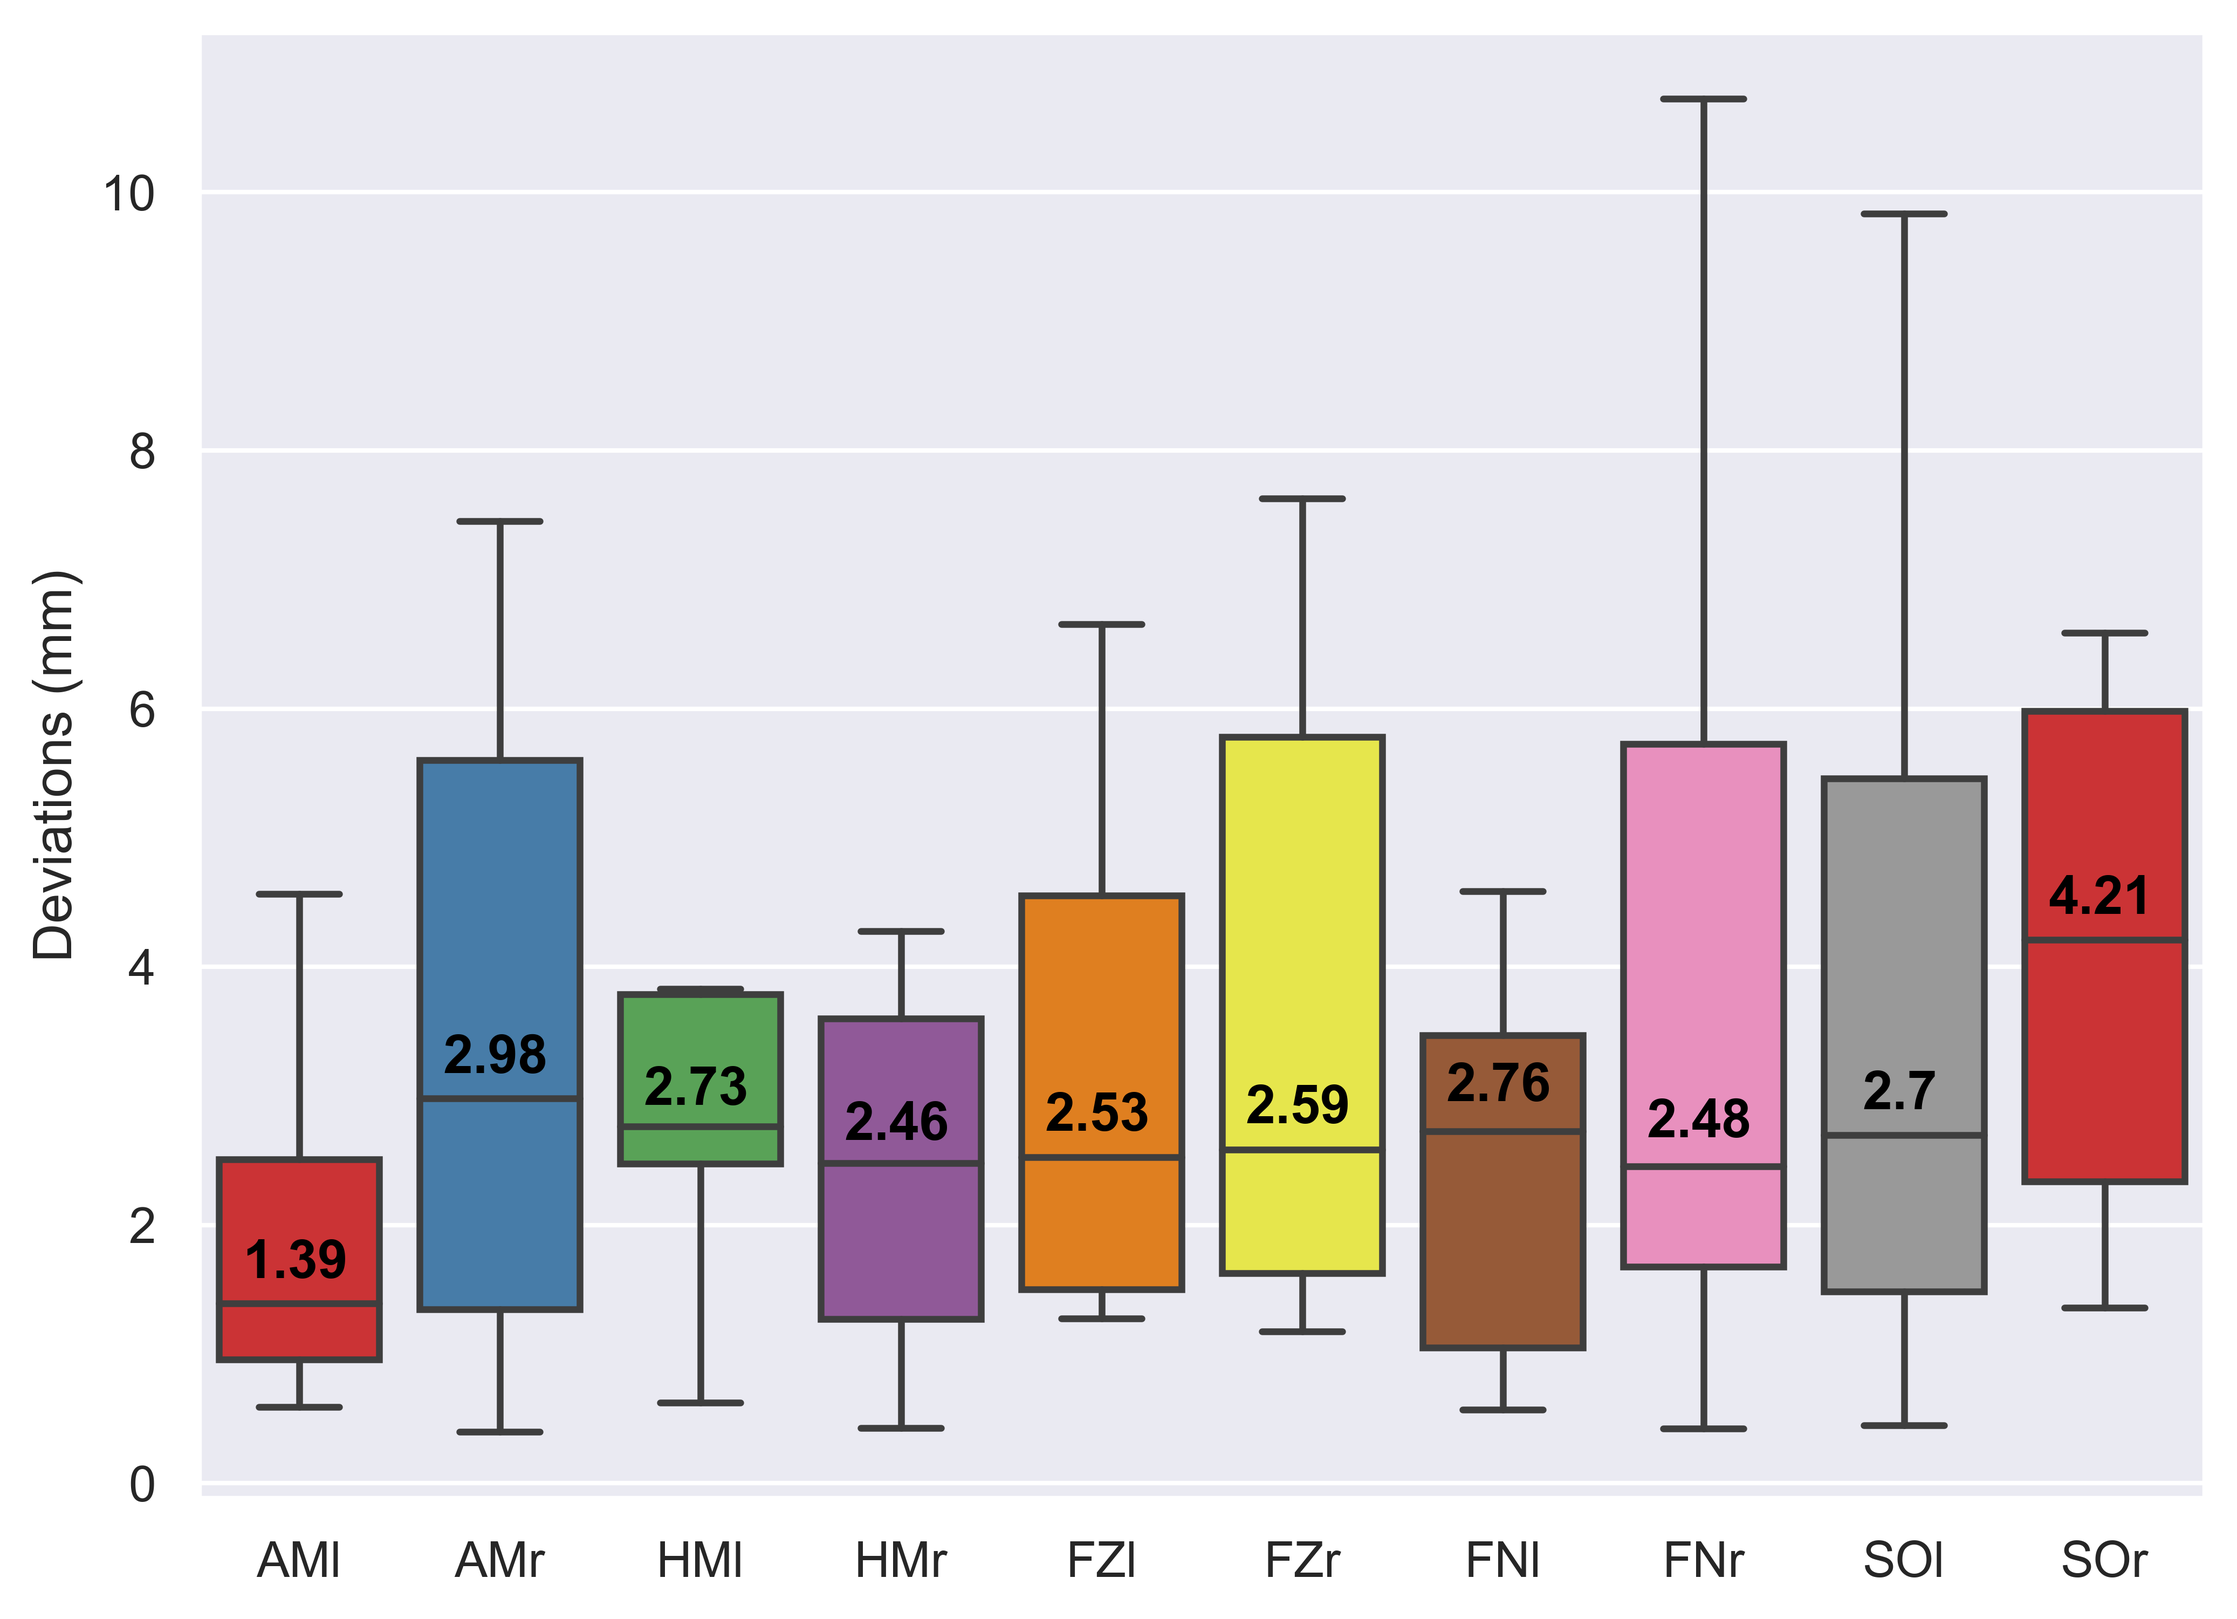
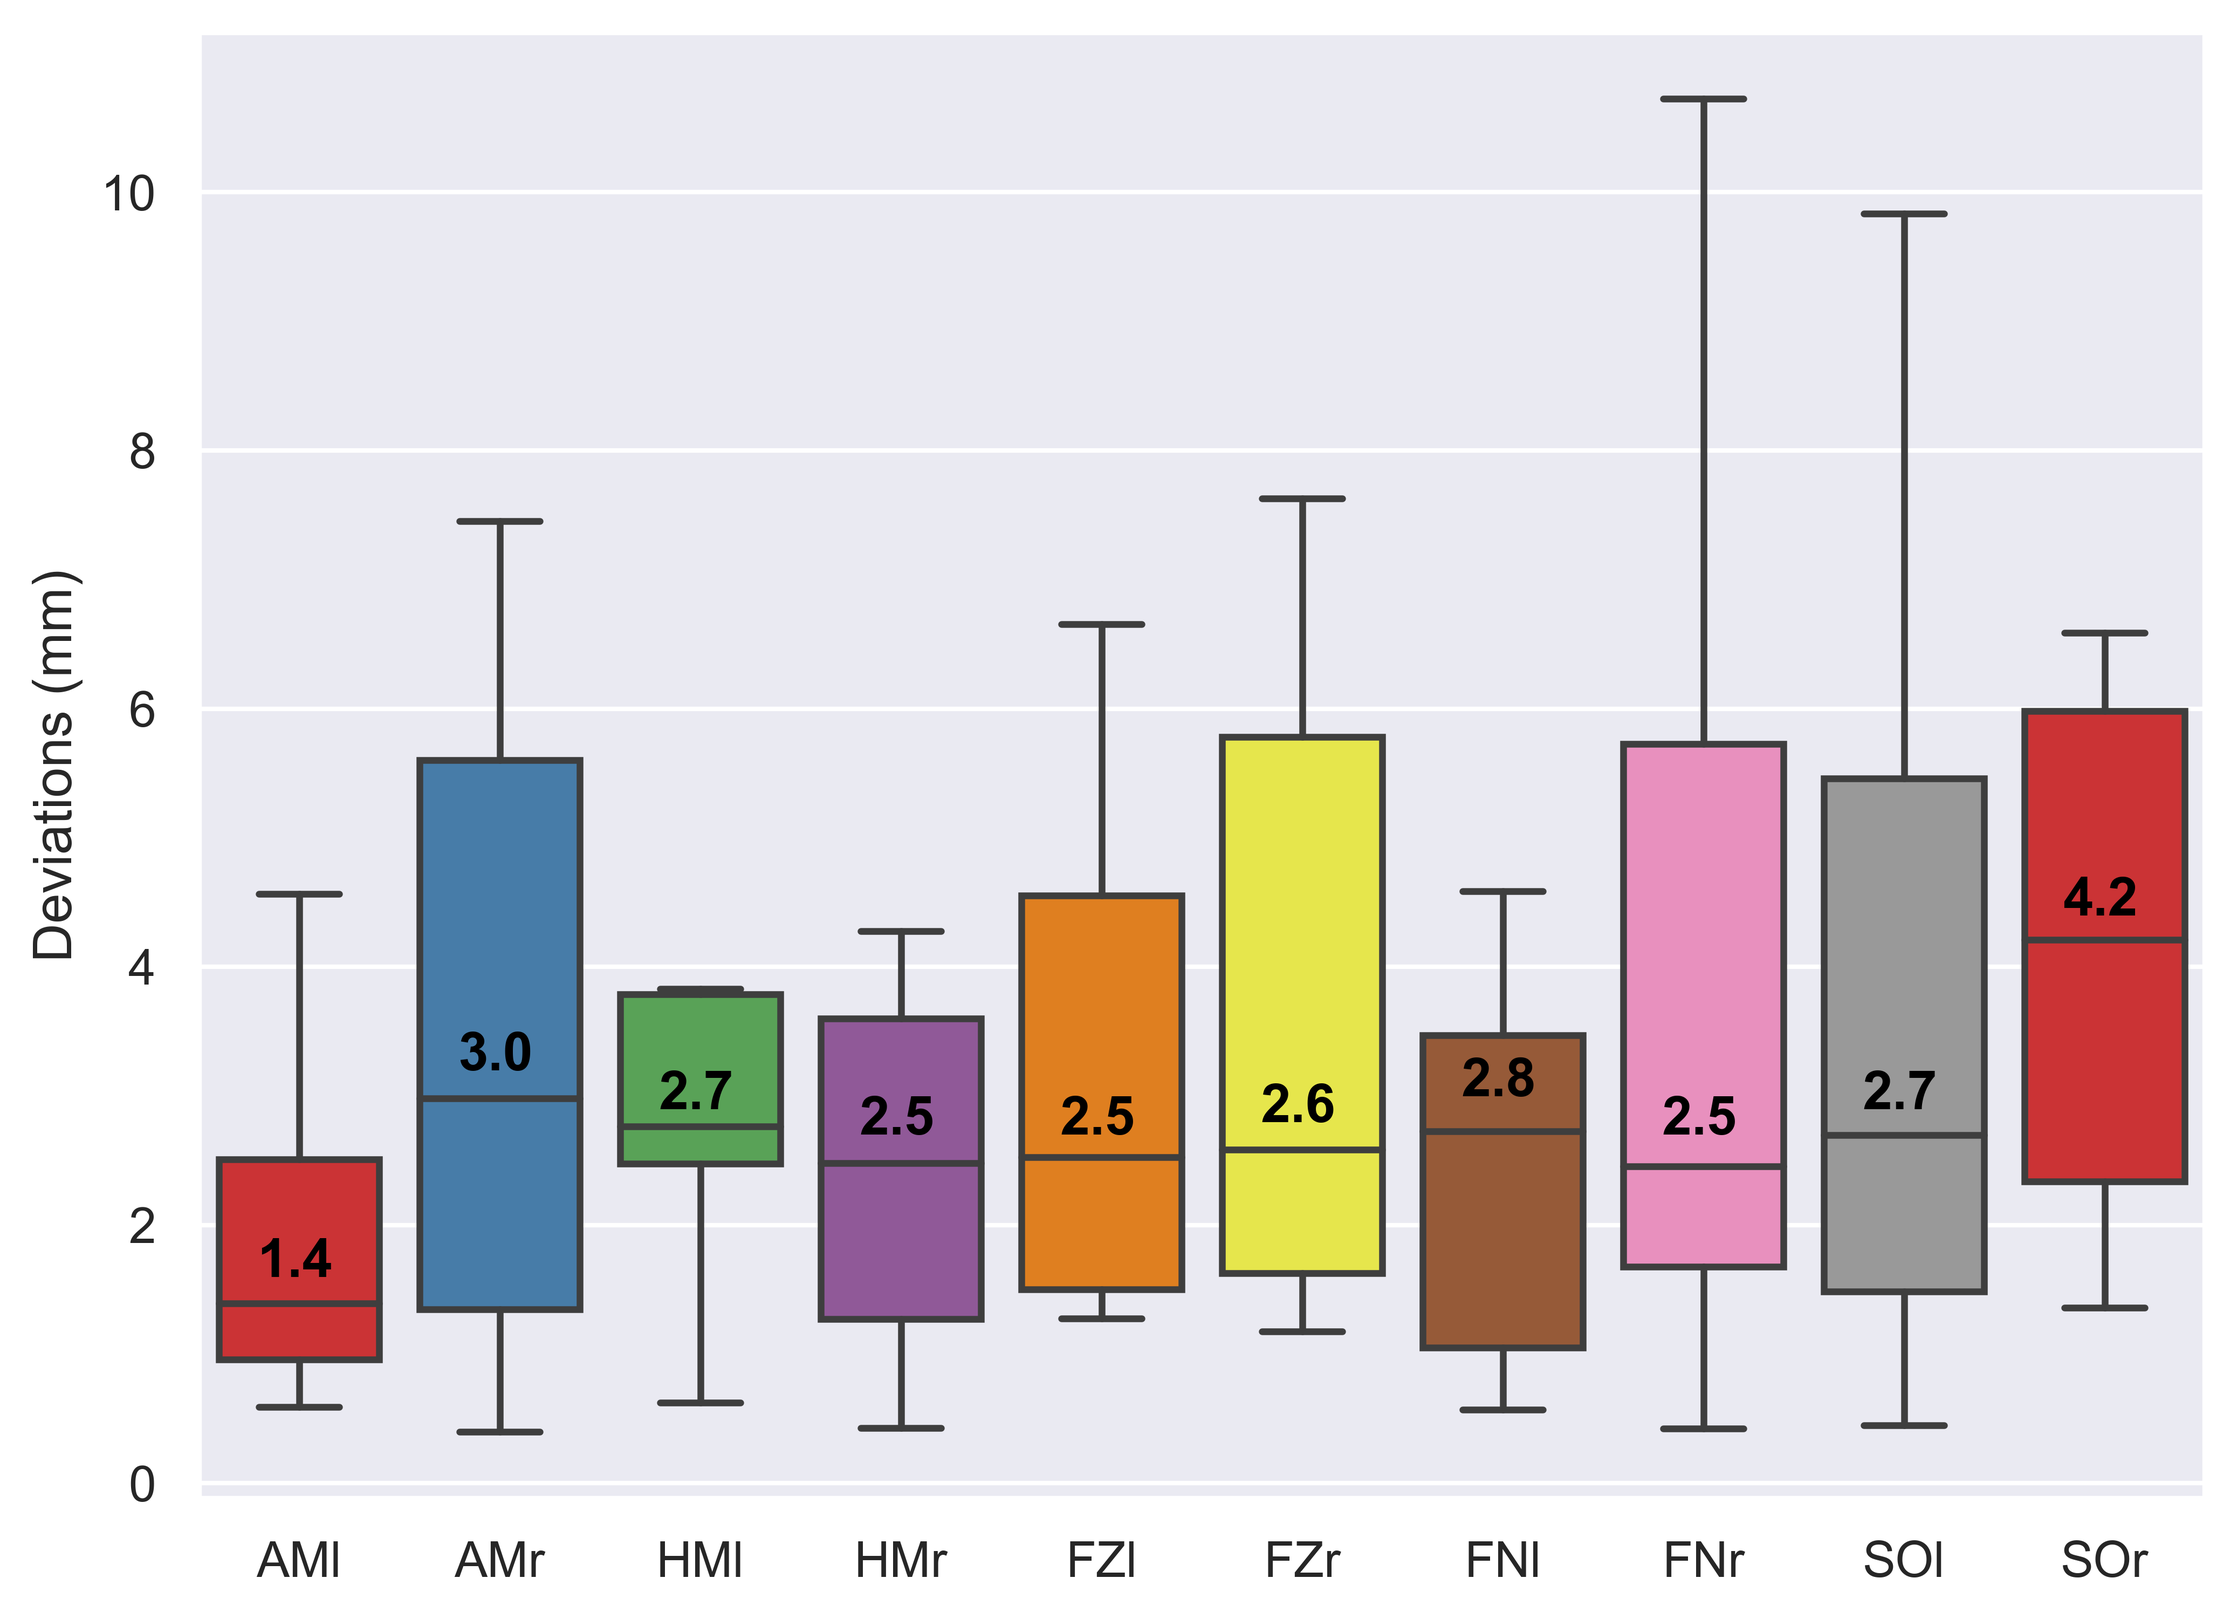
plots

diff --git a/compare/click_comp_sets.py b/compare/click_comp_sets.py
@@ -156,7 +156,7 @@ d_new = []
 l_old = [0.7, 1.7, 2.7, 3.7, 4.7, 5.7, 6.7, 7.7, 8.7, 9.7] 
 l_new = [1.3, 2.3, 3.3, 4.3, 5.3, 6.3, 7.3, 8.3, 9.3, 10.3]
 
-inter = True
+inter = False
 
 if inter == True:
     for l in landmarks:
@@ -229,11 +229,11 @@ df_d_old = pd.DataFrame(d_old, columns=('Patient', 'Landmark','Deviation'))
 df_d_new = pd.DataFrame(d_new,  columns=('Patient', 'Landmark','Deviation'))
        
 if inter == True:
-    df_d_new['Clicks'] = 'Revised'
-    df_d_old['Clicks'] = 'Initial'
+    df_d_new['Annotations'] = 'Revised'
+    df_d_old['Annotations'] = 'Initial'
 if inter == False:
-    df_d_new['Clicker'] = 'Aaron'
-    df_d_old['Clicker'] = 'Oli'
+    df_d_new['Annotator'] = 'Aaron'
+    df_d_old['Annotator'] = 'Oli'
     
 df_d = pd.concat([df_d_old,df_d_new])
 
@@ -249,9 +249,9 @@ means_old = df_d_old.groupby(['Landmark'])['Deviation'].mean()
 #hand =  ['Initial', 'Revised']
 plt.figure(figsize=(8,6))
 if inter == True:       
-    box_plot = sns.boxplot(x = 'Landmark', y = 'Deviation', hue = 'Clicks', palette = 'Set1', data=df_d, showfliers=False)
+    box_plot = sns.boxplot(x = 'Landmark', y = 'Deviation', hue = 'Annotations', palette = 'Set1', data=df_d, showfliers=False)
 elif inter == False:
-    box_plot = sns.boxplot(x = 'Landmark', y = 'Deviation', hue = 'Clicker', palette = 'Set1', data=df_d, showfliers=False)
+    box_plot = sns.boxplot(x = 'Landmark', y = 'Deviation', hue = 'Annotator', palette = 'Set1', data=df_d, showfliers=False)
 
 #sns_plot_new = sns.boxplot(x = 'Landmark', y = 'Revised',data=df_d_new, showfliers=False)
 #plt.legend(bbox_to_anchor=(1.05, 1), handles = [sns_plot_old, sns_plot_new], loc='upper left', borderaxespad=0.)
@@ -278,10 +278,15 @@ if inter == True:
                     horizontalalignment='right',size=12,color='pink', weight='semibold', rotation = 0)
             box_plot.text(xtick + 0.02,medians_new[xtick] + vertical_offset_new,medians_new[xtick], 
                 horizontalalignment='left',size=12,color='pink', weight='semibold', rotation = 0)
-        elif xtick == 3:
-            box_plot.text(xtick - 0.02,medians_old[xtick] + vertical_offset_old - 0.02,medians_old[xtick], 
+        elif xtick == 2:
+            box_plot.text(xtick - 0.02,medians_old[xtick] + vertical_offset_old - 0.5,medians_old[xtick], 
                     horizontalalignment='right',size=12,color='pink', weight='semibold', rotation = 0)
-            box_plot.text(xtick + 0.02,medians_new[xtick] + vertical_offset_new,medians_new[xtick], 
+            box_plot.text(xtick + 0.02,medians_new[xtick] + vertical_offset_new - 0.5,medians_new[xtick], 
+                horizontalalignment='left',size=12,color='pink', weight='semibold', rotation = 0)
+        elif xtick == 3:
+            box_plot.text(xtick - 0.02,medians_old[xtick] + vertical_offset_old - 0.5,medians_old[xtick], 
+                    horizontalalignment='right',size=12,color='pink', weight='semibold', rotation = 0)
+            box_plot.text(xtick + 0.02,medians_new[xtick] + vertical_offset_new - 0.5,medians_new[xtick], 
                 horizontalalignment='left',size=12,color='pink', weight='semibold', rotation = 0)
         elif xtick == 4:
             box_plot.text(xtick - 0.02,medians_old[xtick] + vertical_offset_old,medians_old[xtick], 
@@ -291,7 +296,7 @@ if inter == True:
         elif xtick == 6:
             box_plot.text(xtick - 0.02,medians_old[xtick] + vertical_offset_old,medians_old[xtick], 
                     horizontalalignment='right',size=12,color='pink', weight='semibold', rotation = 0)
-            box_plot.text(xtick + 0.02,medians_new[xtick] + vertical_offset_new - 0.11,medians_new[xtick], 
+            box_plot.text(xtick + 0.02,medians_new[xtick] + vertical_offset_new - 0.5,medians_new[xtick], 
                 horizontalalignment='left',size=12,color='pink', weight='semibold', rotation = 0)
         elif xtick == 7:
             box_plot.text(xtick - 0.02,medians_old[xtick] + vertical_offset_old,medians_old[xtick], 
@@ -299,9 +304,14 @@ if inter == True:
             box_plot.text(xtick + 0.02,medians_new[xtick] + vertical_offset_new - 1,medians_new[xtick], 
                 horizontalalignment='left',size=12,color='pink', weight='semibold', rotation = 0)
         elif xtick == 8:
-            box_plot.text(xtick - 0.02,medians_old[xtick] + vertical_offset_old - 0.1,medians_old[xtick], 
+            box_plot.text(xtick - 0.02,medians_old[xtick] + vertical_offset_old - 0.5,medians_old[xtick], 
                     horizontalalignment='right',size=12,color='pink', weight='semibold', rotation = 0)
             box_plot.text(xtick + 0.02,medians_new[xtick] + vertical_offset_new - 0,medians_new[xtick], 
+                horizontalalignment='left',size=12,color='pink', weight='semibold', rotation = 0)
+        elif xtick == 9:
+            box_plot.text(xtick - 0.02,medians_old[xtick] + vertical_offset_old - 0.5,medians_old[xtick], 
+                    horizontalalignment='right',size=12,color='pink', weight='semibold', rotation = 0)
+            box_plot.text(xtick + 0.02,medians_new[xtick] + vertical_offset_new + 0.2,medians_new[xtick], 
                 horizontalalignment='left',size=12,color='pink', weight='semibold', rotation = 0)
         else:
             box_plot.text(xtick - 0.02,medians_old[xtick] + vertical_offset_old,medians_old[xtick], 
@@ -313,61 +323,64 @@ elif inter == False:
     for xtick in box_plot.get_xticks():
         
         if xtick == 1:
-            box_plot.text(xtick - 0.02,medians_old[xtick] + vertical_offset_old,medians_old[xtick], 
-                    horizontalalignment='right',size=12,color='pink', weight='semibold', rotation = 0)
-            box_plot.text(xtick + 0.02,medians_new[xtick] + vertical_offset_new,medians_new[xtick], 
-                horizontalalignment='left',size=12,color='pink', weight='semibold', rotation = 0)
+            box_plot.text(xtick - 0.08,medians_old[xtick] + vertical_offset_old + 0.1,medians_old[xtick], 
+                    horizontalalignment='right',size=12,color='pink', weight='semibold', rotation = 90)
+            box_plot.text(xtick + 0.08,medians_new[xtick] + vertical_offset_new + 0.1,medians_new[xtick], 
+                horizontalalignment='left',size=12,color='pink', weight='semibold', rotation = 90)
         elif xtick == 2:
-            box_plot.text(xtick - 0.07,medians_old[xtick] + vertical_offset_old - 0.05,medians_old[xtick], 
+            box_plot.text(xtick - 0.04,medians_old[xtick] + vertical_offset_old - 0.05,medians_old[xtick], 
                     horizontalalignment='right',size=12,color='pink', weight='semibold', rotation = 0)
-            box_plot.text(xtick + 0.07,medians_new[xtick] + vertical_offset_new - 1,medians_new[xtick], 
+            box_plot.text(xtick + 0.01,medians_new[xtick] + vertical_offset_new - 1,medians_new[xtick], 
                 horizontalalignment='left',size=12,color='pink', weight='semibold', rotation = 0)
         elif xtick == 3:
-            box_plot.text(xtick - 0.08,medians_old[xtick] + vertical_offset_old - 0.05,medians_old[xtick], 
+            box_plot.text(xtick - 0.03,medians_old[xtick] + vertical_offset_old - 0.05,medians_old[xtick], 
                     horizontalalignment='right',size=12,color='pink', weight='semibold', rotation = 0)
-            box_plot.text(xtick + 0.08,medians_new[xtick] + vertical_offset_new - 1,medians_new[xtick], 
+            box_plot.text(xtick + 0.03,medians_new[xtick] + vertical_offset_new - 1,medians_new[xtick], 
                 horizontalalignment='left',size=12,color='pink', weight='semibold', rotation = 0)
         elif xtick == 4:
-            box_plot.text(xtick - 0.05,medians_old[xtick] + vertical_offset_old,medians_old[xtick], 
+            box_plot.text(xtick - 0.02,medians_old[xtick] + vertical_offset_old,medians_old[xtick], 
                     horizontalalignment='right',size=12,color='pink', weight='semibold', rotation = 0)
-            box_plot.text(xtick + 0.05,medians_new[xtick] + vertical_offset_new,medians_new[xtick], 
+            box_plot.text(xtick + 0.02,medians_new[xtick] + vertical_offset_new,medians_new[xtick], 
                 horizontalalignment='left',size=12,color='pink', weight='semibold', rotation = 0)
         elif xtick == 5:
-            box_plot.text(xtick - 0.07,medians_old[xtick] + vertical_offset_old,medians_old[xtick], 
+            box_plot.text(xtick - 0.02,medians_old[xtick] + vertical_offset_old,medians_old[xtick], 
                     horizontalalignment='right',size=12,color='pink', weight='semibold', rotation = 0)
-            box_plot.text(xtick + 0.07,medians_new[xtick] + vertical_offset_new,medians_new[xtick], 
+            box_plot.text(xtick + 0.02,medians_new[xtick] + vertical_offset_new,medians_new[xtick], 
                 horizontalalignment='left',size=12,color='pink', weight='semibold', rotation = 0)
         elif xtick == 6:
-            box_plot.text(xtick - 0.02,medians_old[xtick] + vertical_offset_old,medians_old[xtick], 
-                    horizontalalignment='right',size=12,color='pink', weight='semibold', rotation = 0)
-            box_plot.text(xtick + 0.02,medians_new[xtick] + vertical_offset_new - 0.11,medians_new[xtick], 
-                horizontalalignment='left',size=12,color='pink', weight='semibold', rotation = 0)
-        elif xtick == 7:
-            box_plot.text(xtick - 0.02,medians_old[xtick] + vertical_offset_old,medians_old[xtick], 
+            box_plot.text(xtick - 0.07,medians_old[xtick] + vertical_offset_old,medians_old[xtick], 
                     horizontalalignment='right',size=12,color='pink', weight='semibold', rotation = 90)
-            box_plot.text(xtick + 0.02,medians_new[xtick] + vertical_offset_new,medians_new[xtick], 
+            box_plot.text(xtick + 0.08,medians_new[xtick] + vertical_offset_new - 1,medians_new[xtick], 
+                horizontalalignment='left',size=12,color='pink', weight='semibold', rotation = 90)
+        elif xtick == 7:
+            box_plot.text(xtick - 0.07,medians_old[xtick] + vertical_offset_old,medians_old[xtick], 
+                    horizontalalignment='right',size=12,color='pink', weight='semibold', rotation = 90)
+            box_plot.text(xtick + 0.09,medians_new[xtick] + vertical_offset_new - 1.5,medians_new[xtick], 
                 horizontalalignment='left',size=12,color='pink', weight='semibold', rotation = 90)
         elif xtick == 8:
-            box_plot.text(xtick - 0.07,medians_old[xtick] + vertical_offset_old - 1,medians_old[xtick], 
+            box_plot.text(xtick - 0.02,medians_old[xtick] + vertical_offset_old - 1,medians_old[xtick], 
                     horizontalalignment='right',size=12,color='pink', weight='semibold', rotation = 0)
-            box_plot.text(xtick + 0.07,medians_new[xtick] + vertical_offset_new - 0.4,medians_new[xtick], 
+            box_plot.text(xtick + 0.02,medians_new[xtick] + vertical_offset_new - 0.6,medians_new[xtick], 
                 horizontalalignment='left',size=12,color='pink', weight='semibold', rotation = 0)
         elif xtick == 9:
-            box_plot.text(xtick - 0.05,medians_old[xtick] + vertical_offset_old+0.3,medians_old[xtick], 
+            box_plot.text(xtick - 0.03,medians_old[xtick] + vertical_offset_old+0.3,medians_old[xtick], 
                     horizontalalignment='right',size=12,color='pink', weight='semibold', rotation = 0)
-            box_plot.text(xtick + 0.05,medians_new[xtick] + vertical_offset_new ,medians_new[xtick], 
+            box_plot.text(xtick + 0.03,medians_new[xtick] + vertical_offset_new ,medians_new[xtick], 
                 horizontalalignment='left',size=12,color='pink', weight='semibold', rotation = 0)
         else:
-            box_plot.text(xtick - 0.05,medians_old[xtick] + vertical_offset_old,medians_old[xtick], 
+            box_plot.text(xtick - 0.01,medians_old[xtick] + vertical_offset_old,medians_old[xtick], 
                     horizontalalignment='right',size=12,color='pink', weight='semibold', rotation = 0)
-            box_plot.text(xtick + 0.05,medians_new[xtick] + vertical_offset_new,medians_new[xtick], 
+            box_plot.text(xtick + 0.01,medians_new[xtick] + vertical_offset_new,medians_new[xtick], 
                 horizontalalignment='left',size=12,color='pink', weight='semibold', rotation = 0)
 
 
 #plt.title("Inter-observer variation between initial and revised datasets")
 #sns_plot_x.fig.subplots_adjust(top=1)
 box_plot.set(xlabel=None)
-plt.savefig('variation_output.png', bbox_inches='tight', dpi=600)
+if inter == True:
+    plt.savefig('inter_observer.png', bbox_inches='tight', dpi=600)
+elif inter == False:
+    plt.savefig('intra_observer.png', bbox_inches='tight', dpi=600)
 
 
 

diff --git a/compare/bias_clicks.py b/compare/bias_clicks.py
@@ -168,7 +168,7 @@ mini = df_d.groupby(['Landmark'])['dev_total'].min()
 
 print(mean)
 
-median = round(median,2)
+median = round(median,1)
 
 plt.figure(figsize=(8,6))
 box_plot = sns.boxplot(x = 'Landmark', y = 'dev_total', palette = 'Set1', data=df_d, showfliers=False)
